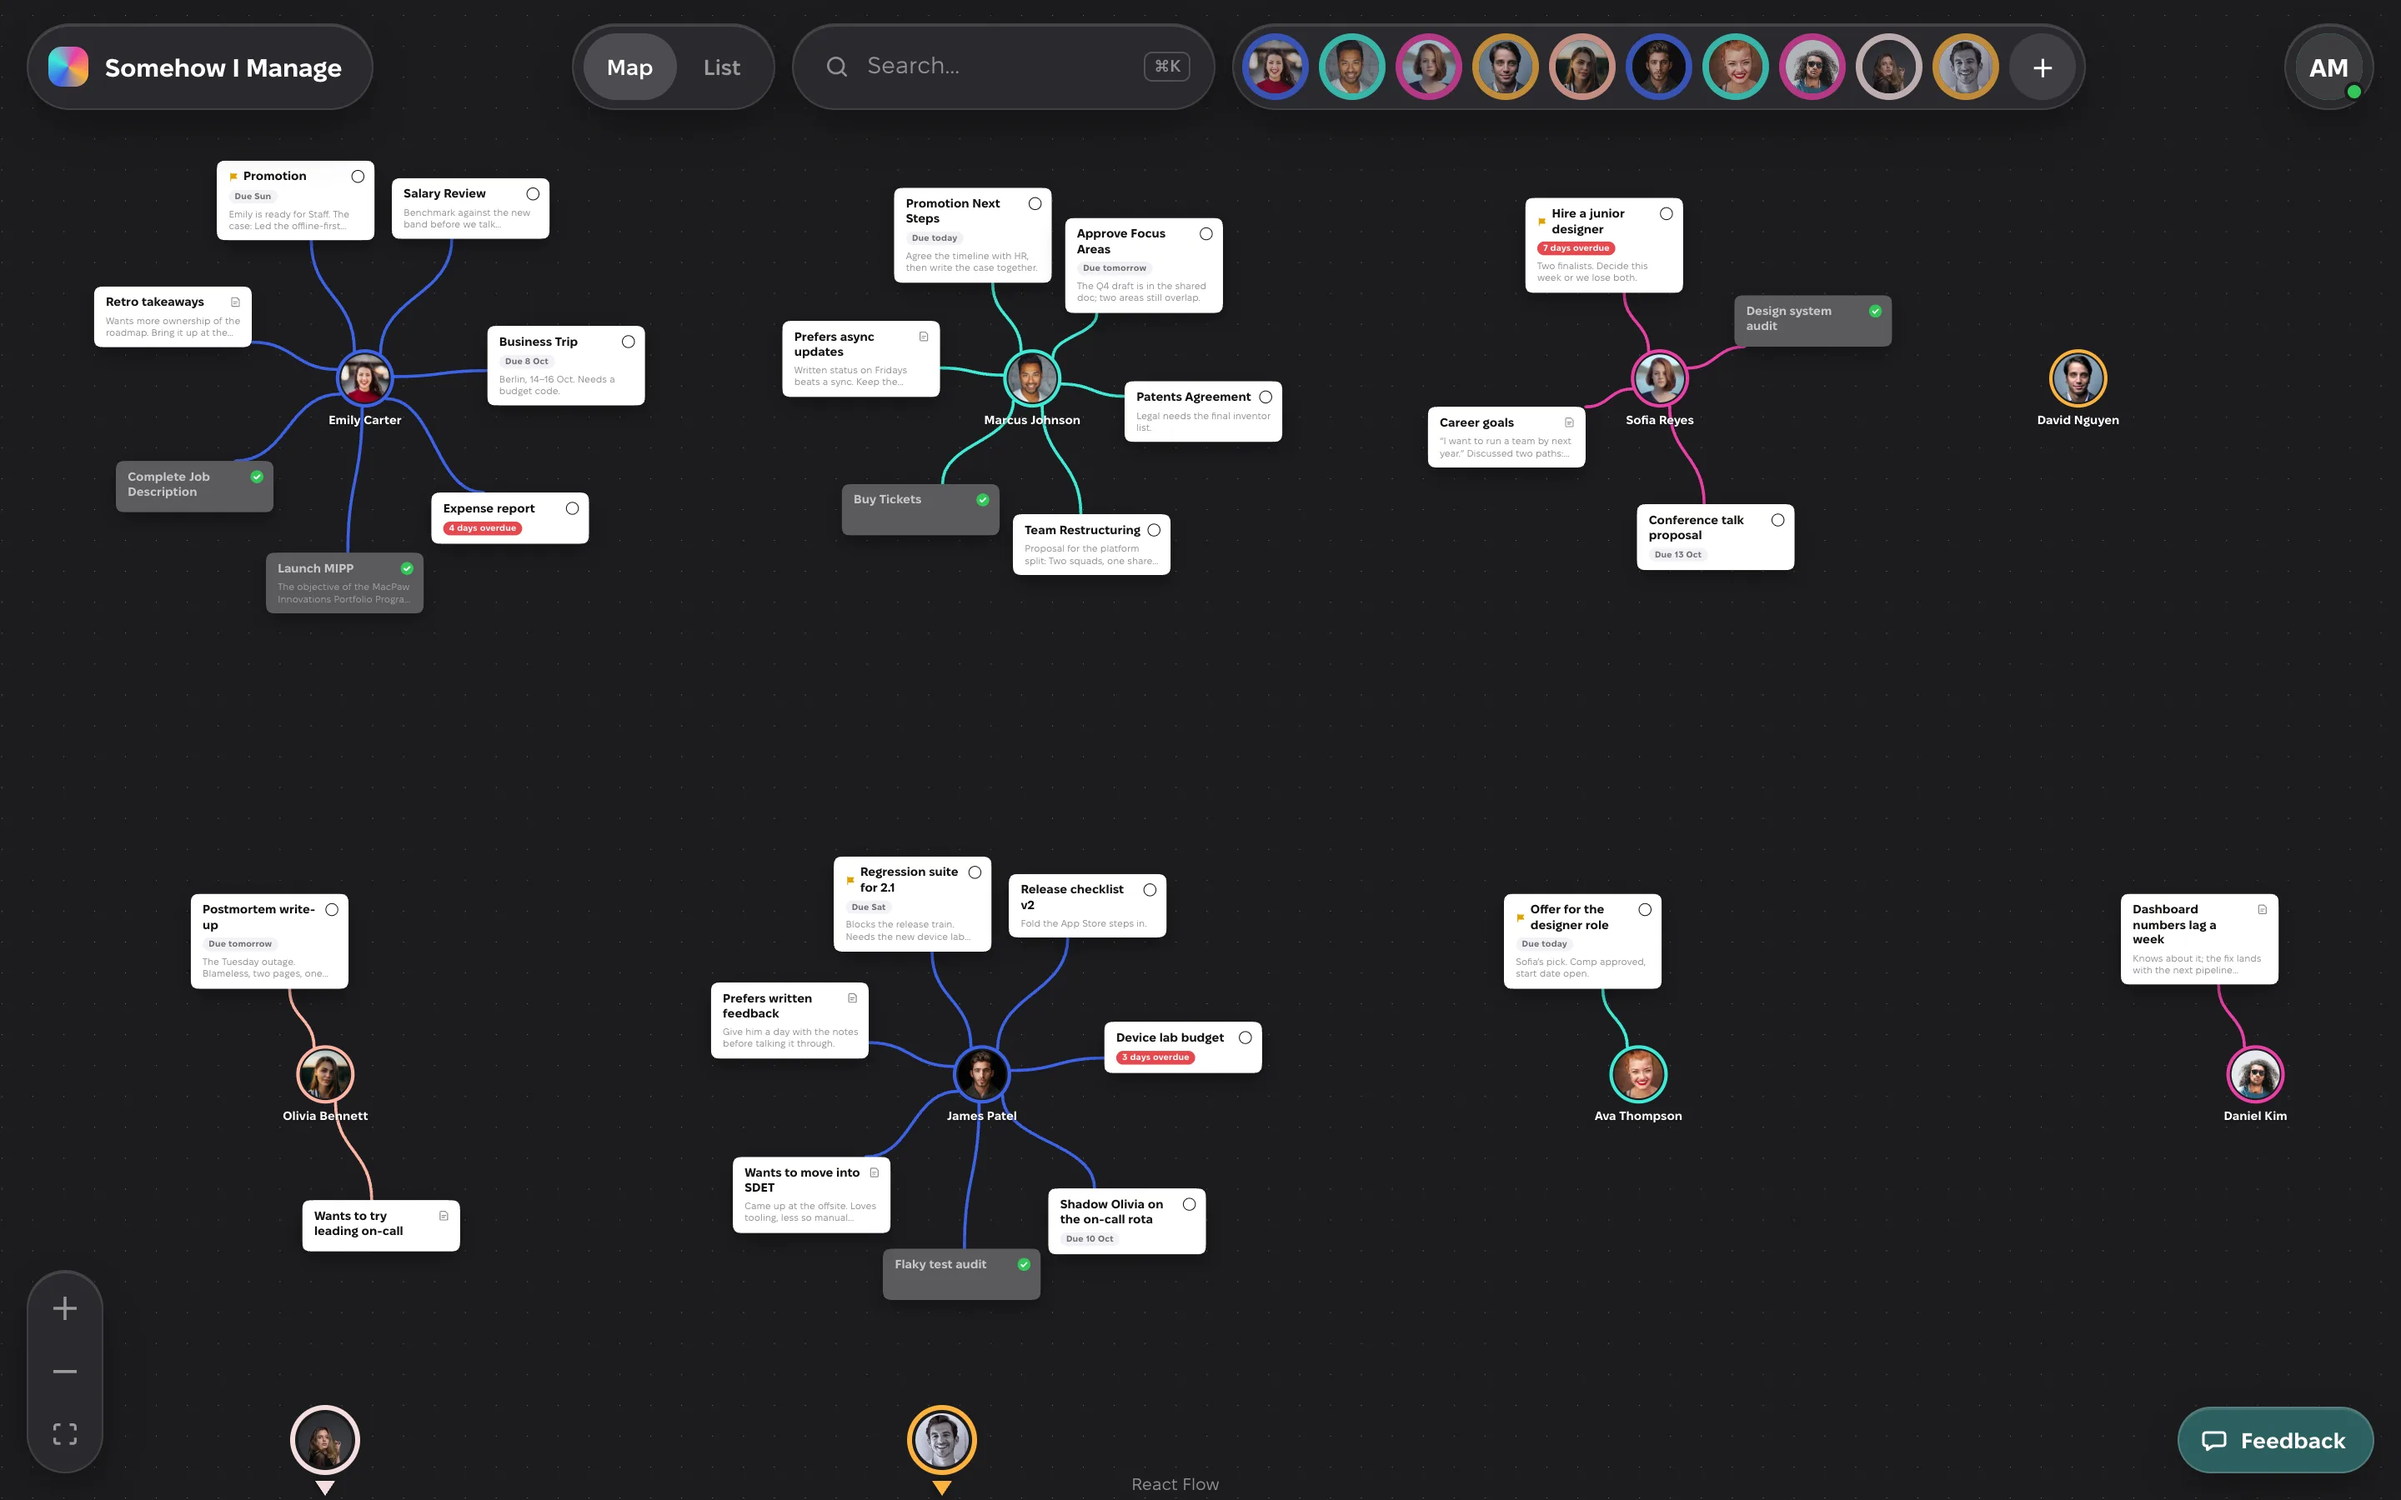
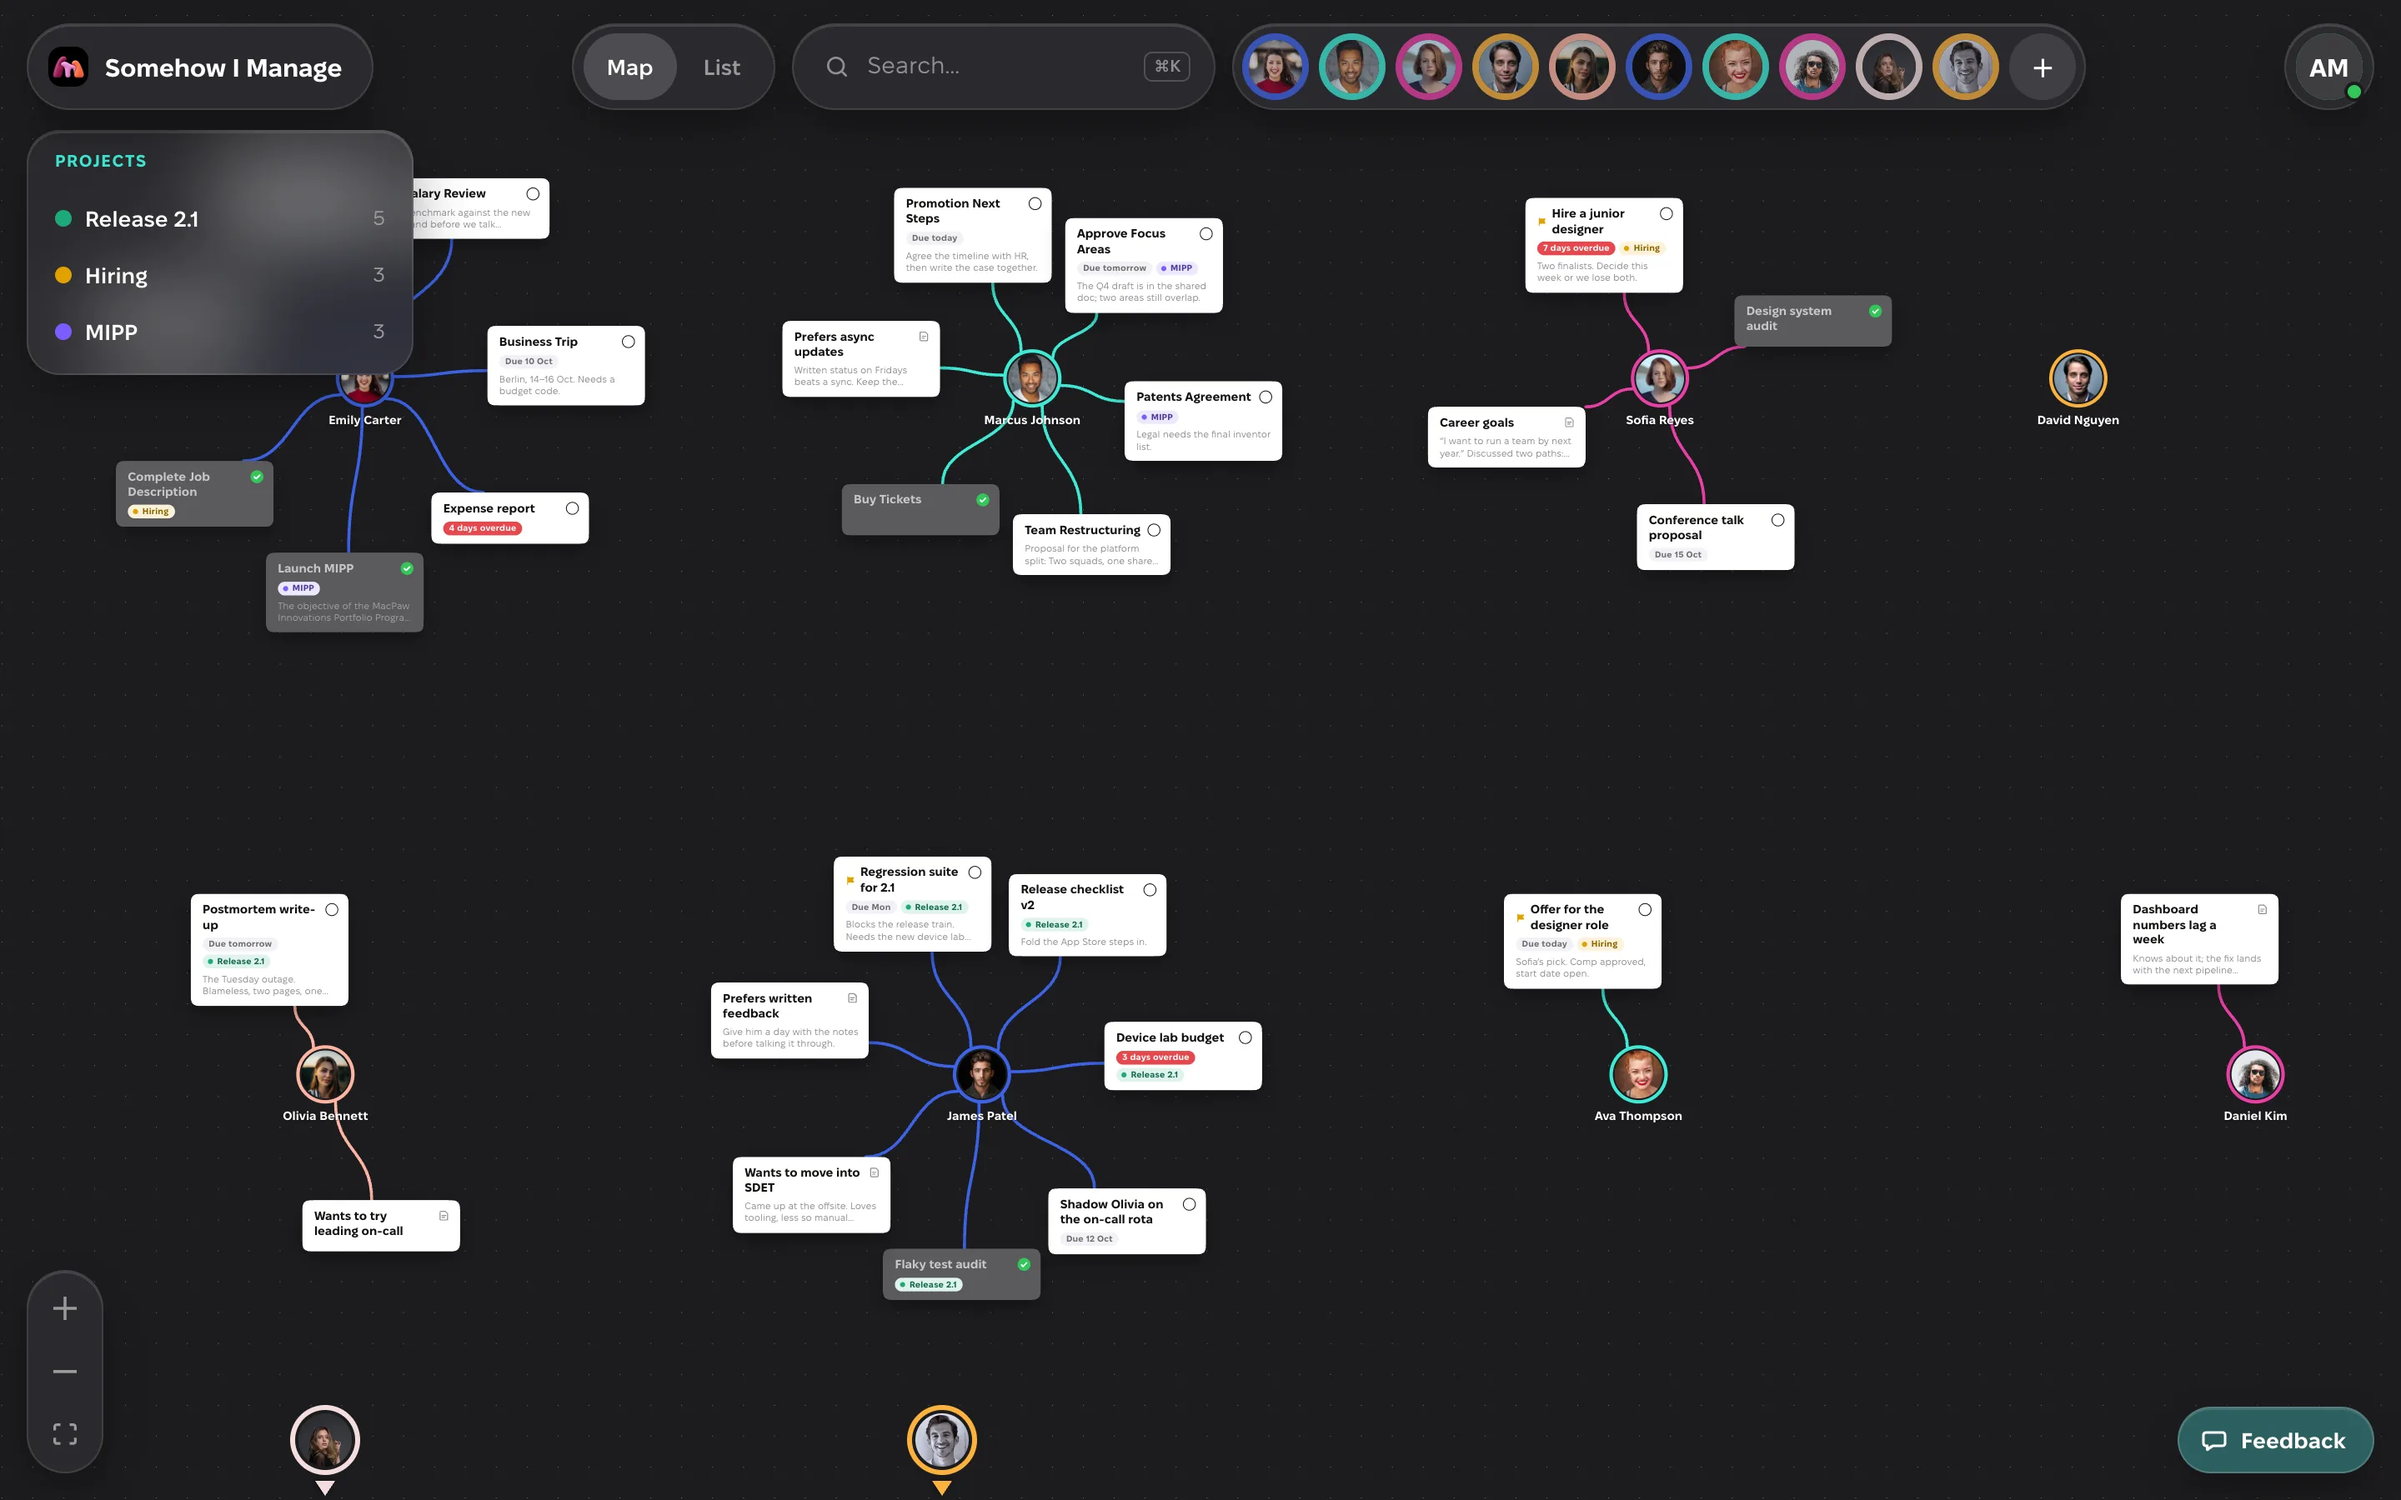
Landing and SEO: projects as a supporting point
A fifth caption tab in the map section, "Projects across people", over a new
screenshot of the Projects island with Release 2.1 in the spotlight; all the
landing screenshots re-taken so the chips show everywhere, and the social card
rebuilt from the refreshed focus shot. FAQ gains "Can I group work by project?"
(and with it the FAQ structured data), the app's JSON-LD feature list a Projects
line, llms.txt a Projects bullet, the sitemap today's date. Title and meta
description stay as they are.

diff --git a/src/components/LandingPage.tsx b/src/components/LandingPage.tsx
@@ -328,6 +328,7 @@ function structuredData() {
         featureList: [
           'People Map: the team as hubs with their tasks and notes around them',
           '1:1 mode with an agenda built from open items',
+          'Projects: tag tasks and notes across people and spotlight one on the map',
           'Quick capture from anywhere',
           'Offline-first, synced through your own account',
           'Export to Markdown, JSON backup and restore',
@@ -498,6 +499,12 @@ const MAP_POINTS = [
     text: 'Open a card and the rest of the team steps back, so you can think about one person.',
     shot: 'map-focus',
     alt: 'One person’s cluster in focus with a card open; everyone else dimmed',
+  },
+  {
+    title: 'Projects across people',
+    text: 'Tag anything with a project. One click lights up everything in it, whoever it’s with.',
+    shot: 'map-projects',
+    alt: 'The map with one project in the spotlight: its cards lit across two people, the rest dimmed, and a Projects panel counting them',
   },
   {
     title: 'Nobody falls off the edge',

diff --git a/src/content/faq.ts b/src/content/faq.ts
@@ -16,6 +16,10 @@ export const FAQ: readonly { q: string; a: string }[] = [
     a: 'Start a 1:1 from someone’s page and the agenda builds itself from their open items. Tick what got done, mark what you discussed, capture new things as they come up. Ending the meeting records it, and the next one shows what happened since.',
   },
   {
+    q: 'Can I group work by project?',
+    a: 'Yes. Tag any task or note with a project; people stay the way in, the project is the thread across them. Cards and rows show the tag, and the Projects panel on the map counts what hangs on each project and, with one click, lights up everything in it, whoever it is with.',
+  },
+  {
     q: 'Does it work offline?',
     a: 'Yes. Your data is stored on your device and the app works without a connection. When you are back online it syncs to your account, so your other devices catch up.',
   },
